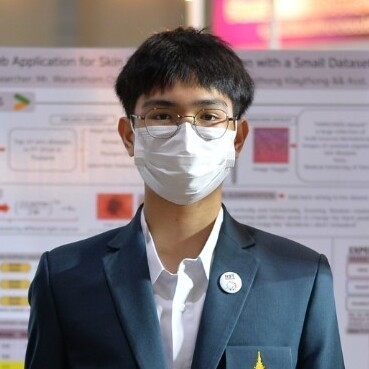
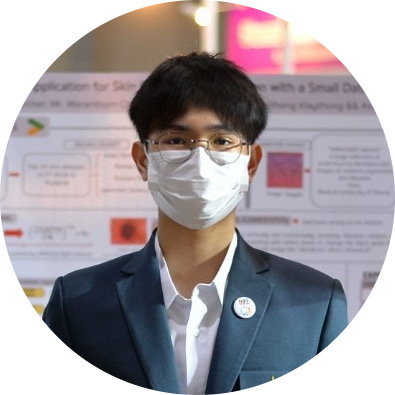
change images

diff --git a/index.html b/index.html
@@ -70,7 +70,7 @@
         </div>
         <div class="home-img">
           <div class="img-box">
-            <img src="img/profile-img.jpg" alt="profile-img">
+            <img src="img/SuitProfile.png" alt="profile-img">
           </div>
         </div>
       </div>
